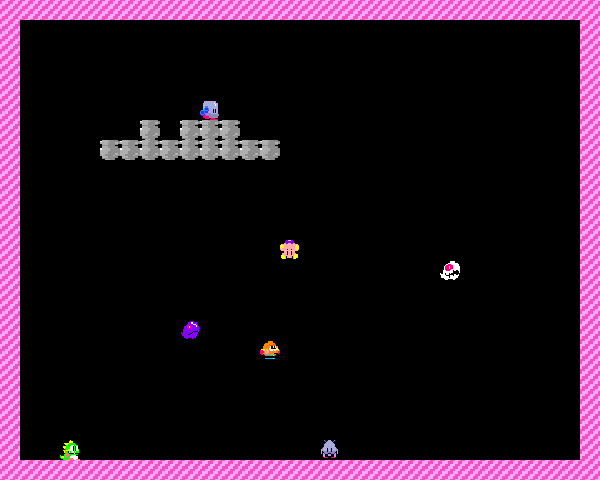
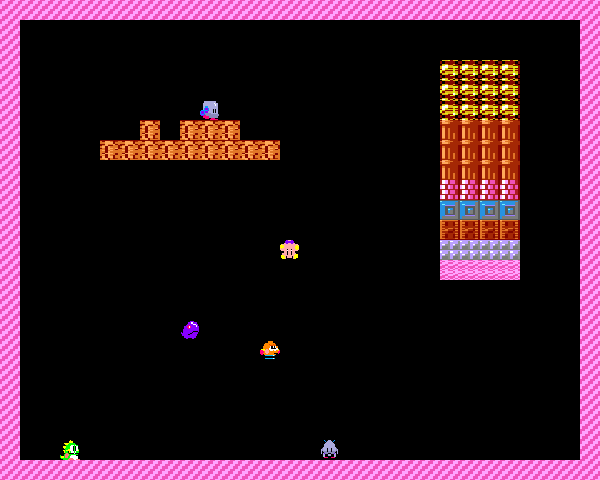
Add new Blocks
Aggiunti nuovi blocchi per arrivare a 9

Changed region(s): [[0.72, 0.125, 0.87, 0.5938], [0.15, 0.25, 0.48, 0.3438]]

diff --git a/JBubbleBobble/src/game/view/Images.java b/JBubbleBobble/src/game/view/Images.java
@@ -12,9 +12,14 @@ public class Images {
 	static {
 		imageMap = new HashMap<>();
 		imageMap.put("1", "/blocks/normal_blocks/block_1");
-		imageMap.put("2", "/blocks/normal_blocks/block_2");
-		imageMap.put("3", "/blocks/normal_blocks/block_3");
-		imageMap.put("4", "/blocks/normal_blocks/block_4");
+		imageMap.put("2", "/blocks/normal_blocks/block_3");
+		imageMap.put("3", "/blocks/normal_blocks/block_5");
+		imageMap.put("4", "/blocks/normal_blocks/block_6");
+		imageMap.put("5", "/blocks/normal_blocks/block_10");
+		imageMap.put("6", "/blocks/normal_blocks/block_25");
+		imageMap.put("7", "/blocks/normal_blocks/block_21");
+		imageMap.put("8", "/blocks/normal_blocks/block_15");
+		imageMap.put("9", "/blocks/normal_blocks/block_19");
 		imageMap.put("P", "/player/");
 		imageMap.put("°", "/bubbles/player_bubble");
 		imageMap.put("-", "/bubbles/fire_bubble");
@@ -23,8 +28,8 @@ public class Images {
 		imageMap.put("%", "/bubbles/special_bubble");
 		imageMap.put("#", "/bubbles/special_effects/fire_ball");
 		imageMap.put("?", "/bubbles/special_effects/bolt");
-		imageMap.put("_", "/bubbles/special_effects/water_horizontal");		
-		imageMap.put("|", "/bubbles/special_effects/water_vertical");		
+		imageMap.put("_", "/bubbles/special_effects/water_horizontal");
+		imageMap.put("|", "/bubbles/special_effects/water_vertical");
 		imageMap.put("Z", "/enemies/zenchan/");
 		imageMap.put("I", "/enemies/invader/");
 		imageMap.put("M", "/enemies/monsta/");
@@ -36,24 +41,23 @@ public class Images {
 		imageMap.put("$", "/powerups/yellow_candy");
 		imageMap.put("§", "/powerups/shoes");
 		imageMap.put("@", "/powerups/parasol/");
-		imageMap.put("*", "/powerups/clock");	
+		imageMap.put("*", "/powerups/clock");
 		imageMap.put("^", "/powerups/dynamite");
 		imageMap.put("&", "/powerups/crystal_ring");
 		imageMap.put("(", "/powerups/amethyst_ring");
-		
 
 	}
 
 	public static BufferedImage getImage(String type, String position) {
 		return ImageLoader.importImg(imageMap.get(type) + position + ".png");
 	}
-	
+
 	public static BufferedImage getImage(String imageCode) {
 		BufferedImage img;
 		if (imageCode.matches("[A-Za-z]"))
 			img = ImageLoader.importImg(imageMap.get(imageCode) + "right.png");
 		else
-			img = ImageLoader.importImg(imageMap.get(imageCode+"") + ".png");
+			img = ImageLoader.importImg(imageMap.get(imageCode + "") + ".png");
 		return img;
 	}
 

diff --git a/JBubbleBobble/src/editor/view/SpriteSelectionScrollPane.java b/JBubbleBobble/src/editor/view/SpriteSelectionScrollPane.java
@@ -91,7 +91,7 @@ public class SpriteSelectionScrollPane extends JScrollPane {
 	}
 
 	private void addBlocks() {
-		for (int i = 1; i <= 4; i++) {
+		for (int i = 1; i <= 9; i++) {
 			String number = String.valueOf(i);
 			blocks.add(new SelectionButton(Images.getImage(number), number));
 		}
